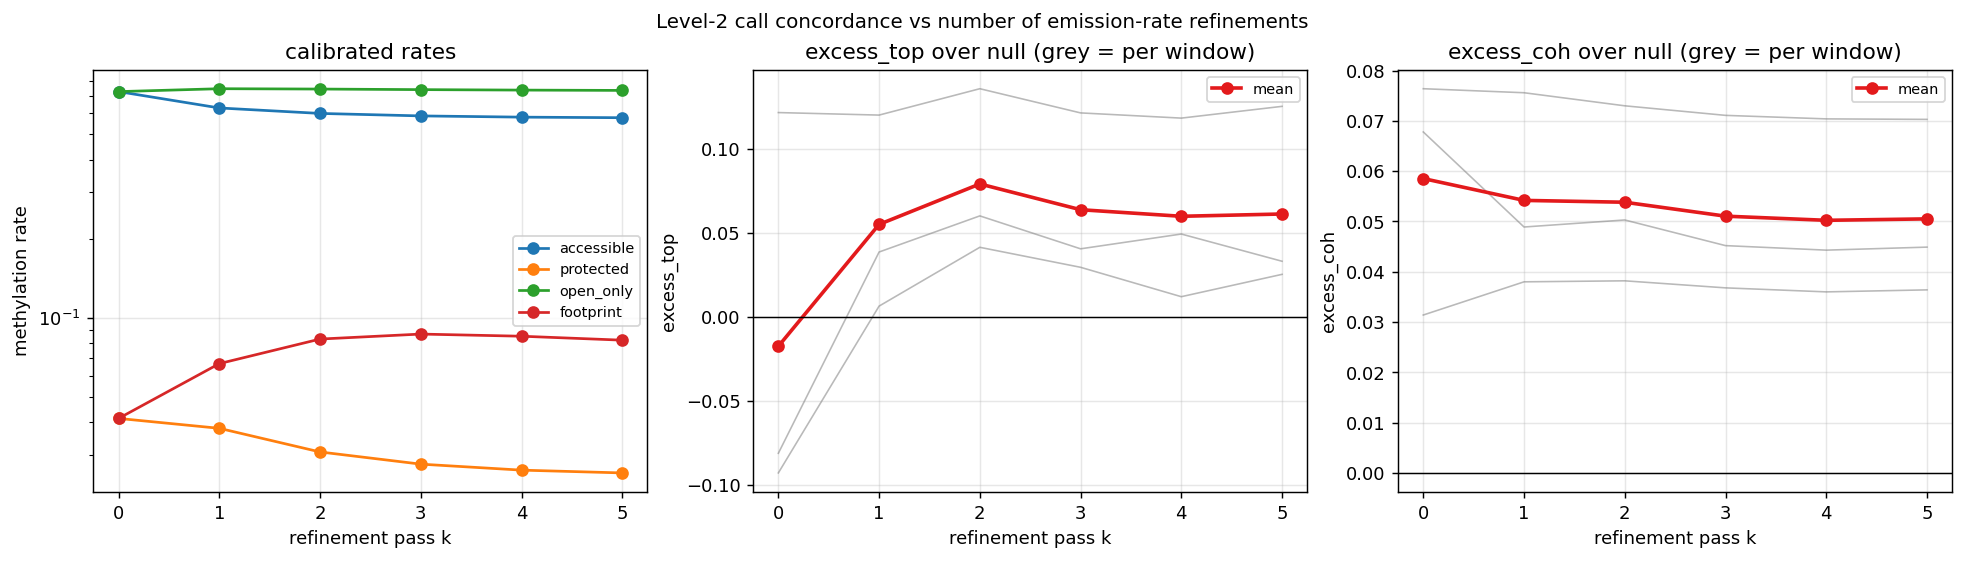
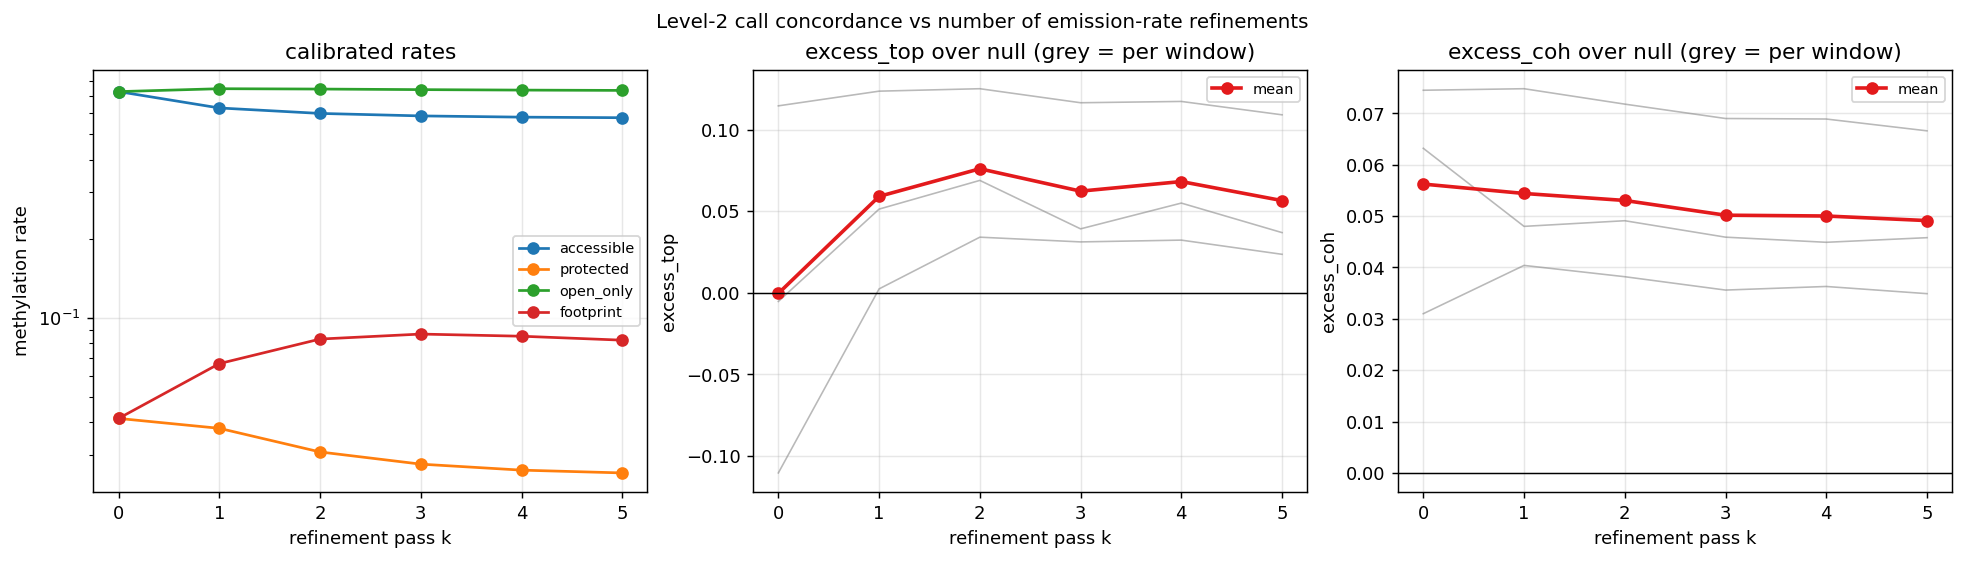
Match the permutation null to the searched interval, and four smaller fixes
From an external code review (Codex). The substantive one:

permute_in_runs() redistributed methylation across the whole Level-1 open run,
but level2() only decodes the interior after trimming margin_bp. Methylation
could therefore cross the margin boundary, so the null differed from the
observation not only in WHERE methylation sat inside the searched region but in
HOW MUCH was there: measured on T-cell data, the searched interval held 1.4%
less methylation under the null (the whole-run count was preserved exactly).
Both sides now go through HierHMM.search_intervals(), so the caller and the null
cannot drift apart, and the count in the searched interval is identical by
construction.

The published numbers move, and one claim changes:

  k            0        1        2        3        4        5
  before  -0.0174  +0.0551  +0.0792  +0.0639  +0.0600  +0.0613
  after   -0.0004  +0.0591  +0.0760  +0.0623  +0.0682  +0.0565

k=2 still wins at all 3 loci and all 3 peak there, so refine_iters is unchanged.
But "unrefined rates give calls LESS concentrated than the null" was an artefact
of the mismatched null: with a matched null they are placed no better than
chance, not worse, and the loci disagree wildly at k=0 (+0.115 / -0.110 /
-0.005). README and config now say that. Section B was re-run too and is
unchanged in shape: +0.061 / +0.075 / +0.076 / +0.077 / +0.077 / +0.076, still
flat from pass 2.

Also from the review:
[…]

diff --git a/hier_hmm/model.py b/hier_hmm/model.py
@@ -68,9 +68,9 @@ class HierHMM:
         ch = level.chain
         if level.decode == "viterbi":
             path = hmm.viterbi(log_E, ch.log_T, ch.log_start)
-            macro = ch.macro[path]
-            post = np.zeros(len(k)) if want_post else None
-            return macro, post
+            # Viterbi gives a path, not a posterior. Return None rather than a
+            # column of zeros, which a caller cannot tell from genuine zeros.
+            return ch.macro[path], None
         pm = hmm.macro_posteriors(log_E, ch.log_T, ch.log_start,
                                   ch.macro, len(ch.macro_names))
         # argmax over the non-threshold states, then let the threshold state
@@ -90,18 +90,17 @@ class HierHMM:
         return lut[macro]
 
     # ------------------------------------------------------------------ level 2
-    def level2(self, fiber, lab1: np.ndarray, rates: np.ndarray):
-        """Overlay call-state runs on a Level-1 labelling, at `level2_bp`.
+    def search_intervals(self, lab1: np.ndarray):
+        """[(start_bp, end_bp)] that Level 2 actually searches, given a Level-1
+        labelling: the interiors of long enough `applies_within` runs, with
+        `margin_bp` trimmed from each end.
 
-        Returns (bp labels, bp posterior); the posterior is NaN outside the
-        interiors that were actually searched.
+        Anything that has to reason about "where Level 2 looked" — the caller
+        itself, and the permutation null in `metrics` — goes through here, so the
+        two cannot drift apart.
         """
-        lab = np.repeat(lab1, self.bin1).astype(np.int8)
-        prob = np.full(len(lab), np.nan)
+        out = []
         within = self.labels[self.within]
-        call_lab = self.labels[self.call_state]
-        b = self.bin2
-        min_call_bins = int(round(self.min_call / b))
         i, n1 = 0, len(lab1)
         while i < n1:
             if lab1[i] != within:
@@ -112,16 +111,33 @@ class HierHMM:
                 j += 1
             a = int(i * self.bin1 + self.margin)
             z = int(j * self.bin1 - self.margin)
-            if (j - i) * self.bin1 >= self.min_open_run and z - a >= 2 * b:
-                k = _rebin(fiber.meth_bp[a:z], b)
-                nn = _rebin(fiber.call_bp[a:z], b)
-                macro, post = self._decode(self.l2, k, nn, rates, want_post=True)
-                hit = macro == self.l2.chain.macro_names.index(self.call_state)
-                hit = _drop_short(hit, min_call_bins)
-                m = len(k) * b
-                lab[a:a + m][np.repeat(hit, b)] = call_lab
-                prob[a:a + m] = np.repeat(post, b)
+            if (j - i) * self.bin1 >= self.min_open_run and z - a >= 2 * self.bin2:
+                out.append((a, z))
             i = j
+        return out
+
+    def level2(self, fiber, lab1: np.ndarray, rates: np.ndarray):
+        """Overlay call-state runs on a Level-1 labelling, at `level2_bp`.
+
+        Returns (bp labels, bp posterior); the posterior is NaN outside the
+        interiors that were actually searched, and NaN everywhere under Viterbi
+        decoding, which produces a path rather than a posterior.
+        """
+        lab = np.repeat(lab1, self.bin1).astype(np.int8)
+        prob = np.full(len(lab), np.nan)
+        call_lab = self.labels[self.call_state]
+        b = self.bin2
+        min_call_bins = int(round(self.min_call / b))
+        for a, z in self.search_intervals(lab1):
+            k = _rebin(fiber.meth_bp[a:z], b)
+            nn = _rebin(fiber.call_bp[a:z], b)
+            macro, post = self._decode(self.l2, k, nn, rates, want_post=True)
+            hit = macro == self.l2.chain.macro_names.index(self.call_state)
+            hit = _drop_short(hit, min_call_bins)
+            m = len(k) * b
+            lab[a:a + m][np.repeat(hit, b)] = call_lab
+            if post is not None:
+                prob[a:a + m] = np.repeat(post, b)
         return lab, prob
 
     def annotate(self, fiber, rates: np.ndarray, want_post: bool = False):

diff --git a/hier_hmm/data.py b/hier_hmm/data.py
@@ -18,6 +18,10 @@ An `.npz` may also carry, all optional:
     <anything else of length n_fiber> is carried through as per-fiber metadata
                (group labels, cluster ids, read names, ...) and is available to
                `plot.order_by` and written back into the output.
+
+`n_pos` is truncated to a whole number of Level-1 bins: every output array is
+`n_bins * level1_bp` long, so up to `level1_bp - 1` trailing positions are
+dropped. The count is reported as `Dataset.dropped_bp` and printed by the CLI.
 """
 from __future__ import annotations
 
@@ -56,6 +60,7 @@ class Dataset:
     bin_bp: int
     coords: np.ndarray                # per-bp x coordinate for plotting
     coord_label: str = "position (bp)"
+    dropped_bp: int = 0               # tail positions lost to whole-bin truncation
     meta: dict = field(default_factory=dict)      # per-fiber arrays, full length
     extras: dict = field(default_factory=dict)    # positions / center / etc.
 
@@ -75,6 +80,10 @@ def prepare(m6a: np.ndarray, cfg: dict, coverage: np.ndarray | None = None,
     n_bins = n_pos // bin_bp
     if n_bins < 1:
         raise ValueError(f"n_pos={n_pos} is shorter than one bin ({bin_bp} bp)")
+    # A window that is not a whole number of Level-1 bins loses its tail: every
+    # output array is n_bins * bin_bp long. Usually 1-4 bp and harmless, but it
+    # is silent, so record it and let the caller say so.
+    dropped = n_pos - n_bins * bin_bp
 
     dcfg = cfg["data"]
     thr = float(dcfg["meth_threshold"])
@@ -125,7 +134,8 @@ def prepare(m6a: np.ndarray, cfg: dict, coverage: np.ndarray | None = None,
         coords = np.arange(n_bins * bin_bp, dtype=float)
         label = "position in window (bp)"
     return Dataset(fibers=fibers, n_pos=n_pos, n_bins=n_bins, bin_bp=bin_bp,
-                   coords=coords, coord_label=label, meta=dict(meta or {}), extras=extras)
+                   coords=coords, coord_label=label, dropped_bp=dropped,
+                   meta=dict(meta or {}), extras=extras)
 
 
 def load_npz(path: str, cfg: dict) -> Dataset:

diff --git a/tests/test_metrics.py b/tests/test_metrics.py
@@ -70,6 +70,45 @@ def test_no_planted_signal_scores_near_zero():
     assert abs(r["excess_coh"]) < 0.03, r
 
 
+def test_null_preserves_the_count_in_the_searched_interval():
+    """The null must differ from the observation only in ARRANGEMENT.
+
+    Permuting over the whole open run instead of the searched interior would let
+    methylation cross the margin boundary, so the null would carry a different
+    AMOUNT of methylation where Level 2 actually looks (1.4% less, measured on
+    T-cell data) — a null that differs in density, not only in arrangement.
+    """
+    cfg = load_config()
+    d = simulate(cfg, n_fiber=20, n_pos=3000, seed=9)
+    ds = prepare(d["m6a"], cfg)
+    model = HierHMM(cfg)
+    rates, _ = calibrate(model, ds, verbose=False)
+    rng = np.random.default_rng(0)
+    checked = 0
+    for f in ds.fibers:
+        lab1 = model.level1(f, rates)
+        perm = permute_in_runs(f, lab1, model, rng)
+        touched = np.zeros(len(f.meth_bp), bool)
+        for a, z in model.search_intervals(lab1):
+            assert perm[a:z].sum() == f.meth_bp[a:z].sum(), (a, z)
+            assert not (perm[a:z] & ~f.call_bp[a:z]).any()
+            touched[a:z] = True
+            checked += 1
+        # nothing outside a searched interval may move at all
+        assert np.array_equal(perm[~touched], f.meth_bp[~touched])
+    assert checked > 0, "no searched intervals to test"
+
+
+def test_viterbi_reports_no_posterior_rather_than_zeros():
+    cfg = load_config(None, ["level2.decode=viterbi"])
+    d = simulate(cfg, n_fiber=10, n_pos=2000, seed=10)
+    ds = prepare(d["m6a"], cfg)
+    model = HierHMM(cfg)
+    rates, _ = calibrate(model, ds, verbose=False)
+    _, post = model.annotate(ds.fibers[0], rates, want_post=True)
+    assert np.isnan(post).all(), "Viterbi has no posterior; it must not report zeros"
+
+
 def test_max_refine_freezes_a_class():
     cfg = load_config(None, ["emission.calibration.refine_iters=3",
                              "emission.classes.footprint.max_refine=1"])

diff --git a/hier_hmm/metrics.py b/hier_hmm/metrics.py
@@ -64,28 +64,24 @@ def median_call_length(rows: np.ndarray) -> float:
 
 # ---------------------------------------------------------------- the null
 def permute_in_runs(fiber, lab1: np.ndarray, model, rng: np.random.Generator) -> np.ndarray:
-    """Re-place a fiber's methylated positions within each Level-1 open run.
+    """Re-place a fiber's methylated positions within each searched interval.
 
-    Count-preserving per run, so the null has the same amount of methylation in
-    the same places at run resolution, and differs only in WHERE inside a run.
+    The intervals come from `model.search_intervals`, i.e. exactly the stretches
+    Level 2 decodes — the interiors of open runs, margins already trimmed. That
+    matters: permuting over the whole open run instead would let methylation
+    cross the margin boundary, so the null would differ from the observation not
+    only in WHERE methylation sits inside the searched region but in HOW MUCH is
+    there at all (about 1.4% less, measured on T-cell data). Confining the
+    permutation to the searched interval makes the count identical by
+    construction, and the null then differs only in arrangement.
     """
-    within = model.labels[model.within]
     out = fiber.meth_bp.copy()
-    i, n1 = 0, len(lab1)
-    while i < n1:
-        if lab1[i] != within:
-            i += 1
-            continue
-        j = i
-        while j < n1 and lab1[j] == within:
-            j += 1
-        a, z = i * model.bin1, j * model.bin1
+    for a, z in model.search_intervals(lab1):
         idx = np.flatnonzero(fiber.call_bp[a:z])
         n_meth = int(fiber.meth_bp[a:z].sum())
         if len(idx) >= 2 and n_meth > 0:
             out[a:z] = False
             out[a + rng.choice(idx, size=min(n_meth, len(idx)), replace=False)] = True
-        i = j
     return out
 
 

diff --git a/hier_hmm/runner.py b/hier_hmm/runner.py
@@ -15,7 +15,10 @@ from .model import NODATA, HierHMM
 @dataclass
 class Result:
     labels: np.ndarray                 # (n_fiber, n_bp) int8, NODATA outside the span
-    posterior: np.ndarray              # (n_fiber, n_bp) float32, NaN where not searched
+    posterior: np.ndarray              # (n_fiber, n_bp) float32 Level-2 call posterior;
+                                       #   NaN where Level 2 did not search, and NaN
+                                       #   everywhere under Viterbi decoding, which
+                                       #   produces a path and not a posterior
     label_map: dict                    # state name -> integer label
     rates: dict                        # emission class -> methylation rate
     calibration: dict                  # full calibration report
@@ -65,7 +68,12 @@ def run(dataset, cfg: dict, verbose: bool = True) -> Result:
 
     meta = {k: np.array([f.meta[k] for f in dataset.fibers]) for k in dataset.meta}
     meta["fiber_index"] = np.array([f.index for f in dataset.fibers])
-    want = [model.labels[s] for s in cfg["plot"]["profile_states"]]
+    # "open" here means the Level-1 state Level 2 searches inside, plus Level 2's
+    # own call state — a footprint sits in accessible DNA, so counting it as
+    # closed would make a heavily footprinted molecule look compact. Defined from
+    # the model, not from `plot.profile_states`: this drives fiber ordering and
+    # is written to the output, so it must not depend on plotting settings.
+    want = [model.labels[model.within], model.labels[model.call_state]]
     meta["open_frac"] = np.array([
         float(np.isin(L[i][L[i] != NODATA], want).mean()) for i in range(len(L))])
 

diff --git a/tests/test_config.py b/tests/test_config.py
@@ -69,6 +69,13 @@ def test_validation_catches_bad_references():
         ("level1.decode=maybe", "must be 'posterior' or 'viterbi'"),
         ("level1.states.nucleosome.min_bp=200", "must be less"),
         ("plot.profile_states=[banana]", "unknown state"),
+        # tau is compared against a posterior; out of [0, 1] it silently turns
+        # the threshold state off or on everywhere instead of erroring
+        ("level1.tau=1.5", "must be in [0, 1]"),
+        ("level2.tau=-0.1", "must be in [0, 1]"),
+        # a state must pin its length distribution xor its substate count
+        ("level1.states.open.k=4", "exactly one of sd_bp"),
+        ("level1.states.nucleosome.sd_bp=null", "exactly one of sd_bp"),
     ]:
         try:
             load_config(None, [override])

diff --git a/hier_hmm/config.py b/hier_hmm/config.py
@@ -150,6 +150,12 @@ def validate(cfg: dict) -> dict:
             raise ValueError(f"{level}.decode must be 'posterior' or 'viterbi'")
         if lv["threshold_state"] not in states:
             raise ValueError(f"{level}.threshold_state must be one of {list(states)}")
+        # tau is compared directly against a posterior probability, so a value
+        # outside [0, 1] does not error anywhere — it silently turns the
+        # threshold state off (tau > 1) or on everywhere (tau < 0).
+        if not 0.0 <= lv["tau"] <= 1.0:
+            raise ValueError(f"{level}.tau is a posterior probability threshold and must be "
+                             f"in [0, 1], got {lv['tau']}")
 
     l2 = cfg["level2"]
     for field in ("background_state", "call_state"):

diff --git a/hier_hmm/cli.py b/hier_hmm/cli.py
@@ -28,6 +28,9 @@ def cmd_run(a) -> int:
     ds = load_npz(a.input, cfg)
     if not a.quiet:
         print(f"{a.input}: {ds.n_pos} positions, {len(ds.fibers)} fibers kept")
+        if ds.dropped_bp:
+            print(f"  note: {ds.dropped_bp} trailing position(s) dropped — the window is "
+                  f"not a whole number of {ds.bin_bp} bp bins")
     result = run(ds, cfg, verbose=not a.quiet)
     paths = save(result, a.outdir, a.prefix)
     if not a.quiet:

diff --git a/README.md b/README.md
@@ -10,7 +10,9 @@ SMAC / dSMF style m6A calls) into chromatin states, one molecule at a time.
 ![quickstart output](docs/quickstart.png)
 
 Each row is a molecule: grey nucleosome, pale blue linker, yellow open, red footprint, white
-where the read has no data. Top panel is the fraction of covering molecules called open.
+where the read has no data. Top panel is the fraction of covering molecules called open **or
+footprint** — a footprint sits in accessible DNA, so it counts as open here (the same convention
+as the per-molecule `open_frac` in the output).
 
 ## States and substates
 
@@ -81,6 +83,9 @@ used only to find each molecule's usable span), `positions` and `center` for the
 **any length-`n_fiber` array** (groups, cluster ids, read names), which rides through to the
 output and can split the plot or order its rows.
 
+`n_pos` is truncated to a whole number of Level-1 bins, so up to `level1_bp - 1` trailing
+positions are dropped; the count is reported on the console and as `Dataset.dropped_bp`.
+
 ## Use
 
 ```bash
@@ -126,21 +131,29 @@ the argmax of the rest. `tau` is the operating point — sweep it for a recall c
 ### Why calibration runs twice
 
 `hier_hmm.metrics` scores Level-2 calls as excess over a permutation null: Level 1 frozen, each
-molecule's methylated positions re-placed within its own open runs, null called with the same
-rates. On three T-cell loci, positional concentration of the footprint calls against the number
-of calibration passes:
+molecule's methylated positions re-placed at random within the intervals Level 2 actually
+searches, null called with the same rates. On three T-cell loci, positional concentration of the
+footprint calls against the number of calibration passes:
 
 | pass `k` | 0 | 1 | **2** | 3 | 4 | 5 |
 | --- | --- | --- | --- | --- | --- | --- |
-| `excess_top` | −0.017 | +0.055 | **+0.079** | +0.064 | +0.060 | +0.061 |
+| `excess_top` | −0.000 | +0.059 | **+0.076** | +0.062 | +0.068 | +0.057 |
+| calls / molecule (obs / null) | 2.5 / 1.0 | 3.7 / 2.1 | 4.4 / 2.6 | 4.8 / 2.9 | 4.8 / 3.0 | 4.8 / 3.0 |
 
 ![refinement sweep](docs/refine_sweep.png)
 
-Unrefined rates give calls *less* concentrated than the null. `k=2` is the best value and all
-three loci agree on it, but the margin over `k=3` is ~0.015 against a between-locus spread of
-~0.021 — so read this as "at least 2", with 3 an acceptable alternative. The footprint rate
-itself settles by pass 2; what keeps drifting afterwards is `accessible` and `protected`. Run
-`examples/refine_sweep.py` on your own windows to redo this.
+Unrefined rates give calls no better placed than chance (−0.0004 on average, and wildly
+inconsistent between loci: +0.115 / −0.110 / −0.005). `k=2` is the best value, and all three
+loci agree on it and prefer it to every other `k` — but the margins past `k=2` are small
+(+0.014 over `k=3`, +0.008 over `k=4`) against a between-locus spread of ~0.027. Read it as "at
+least 2", with 3 an acceptable alternative.
+
+Varying only the footprint rate, with the Level-1 classes held at `k=2`, gives +0.061 / +0.075 /
+**+0.076** / +0.077 / +0.077 / +0.076 — flat from pass 2 on. So the footprint rate is not what
+the curve above is responding to after `k=2`; `accessible` and `protected` are still drifting
+(0.63 → 0.58 and 0.038 → 0.026) and concordance drifts with them.
+
+Run `examples/refine_sweep.py` on your own windows to redo all of this.
 
 ## Tests
 
@@ -148,7 +161,7 @@ itself settles by pass 2; what keeps drifting afterwards is `accessible` and `pr
 pytest                # or: python tests/test_hmm.py  — each file also runs standalone
 ```
 
-34 tests: length distributions against what the config asked for, Viterbi and forward-backward
+36 tests: length distributions against what the config asked for, Viterbi and forward-backward
 against brute-force enumeration of every path on small chains, config validation, end-to-end
 recovery of a simulated path, and the concordance metrics.
 
